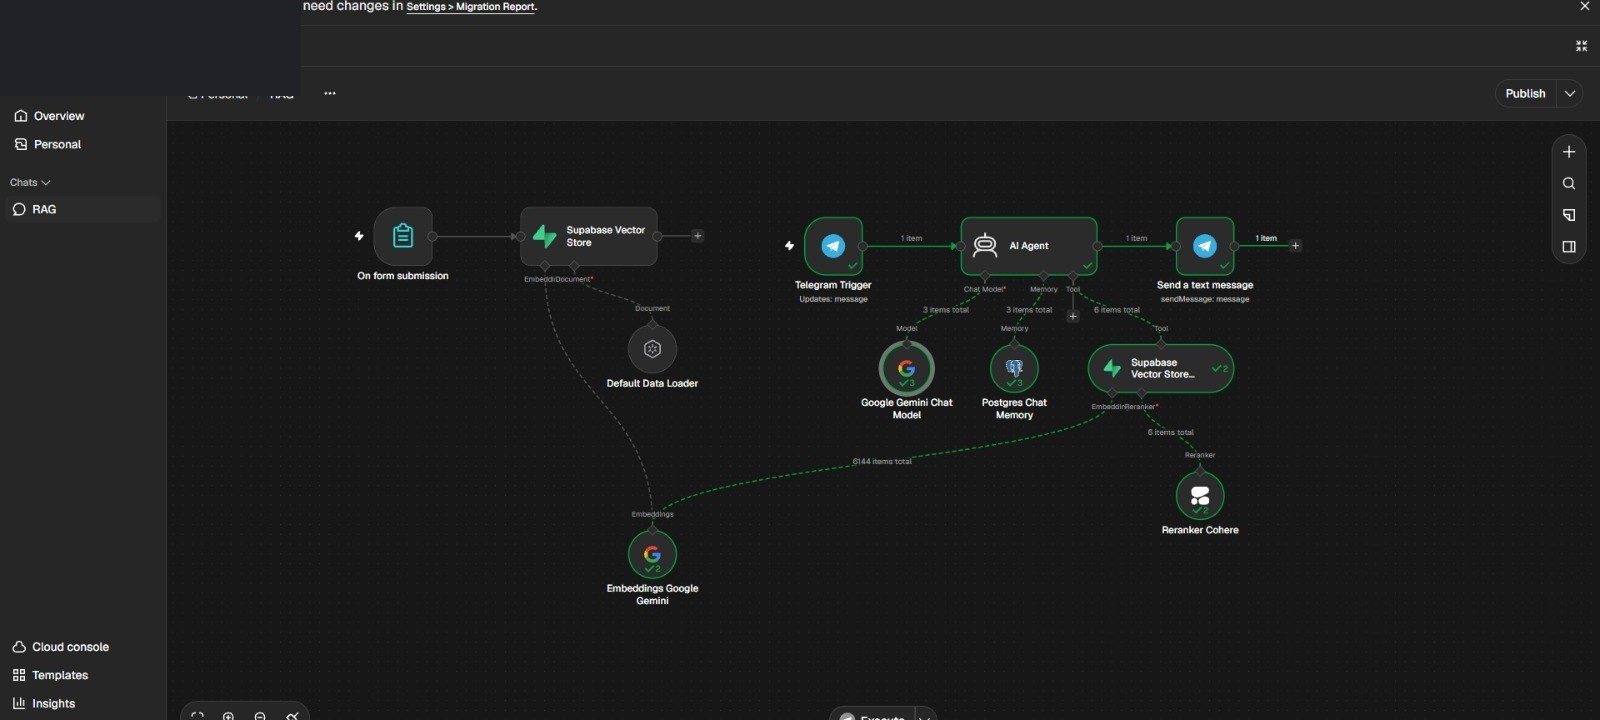
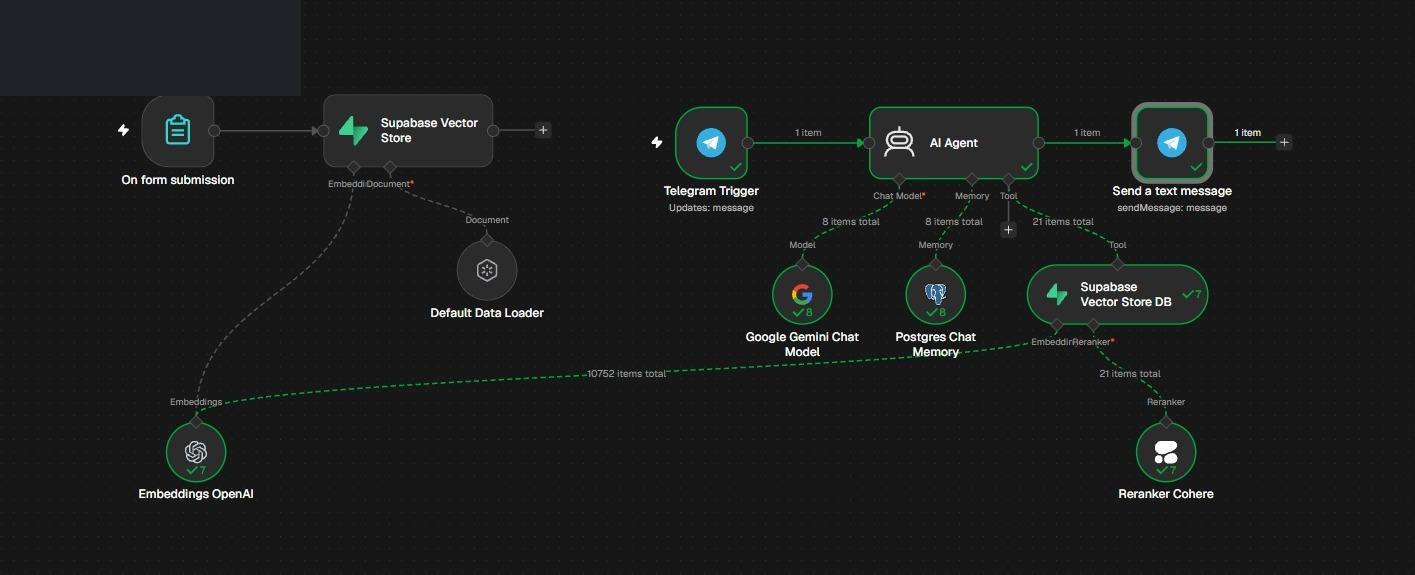
docs: update n8n embeddings to OpenAI

diff --git a/docs/n8n-RAG.md b/docs/n8n-RAG.md
@@ -8,8 +8,10 @@ Ekspor workflow asli disimpan di luar repository pada `C:\Users\Bang_megg\Docume
 
 Workflow bernama `RAG` terdiri dari dua jalur:
 
-1. **Ingestion dokumen:** form n8n menerima berkas PDF, `Default Data Loader` menyiapkan konten dokumen, lalu `Embeddings Google Gemini` menghasilkan embedding. `Supabase Vector Store` menyimpan dokumen pada tabel `documents`.
-2. **Tanya-jawab Telegram:** `Telegram Trigger` menerima pesan, kemudian `AI Agent` menggunakan `Google Gemini Chat Model`, `Supabase Vector Store DB` sebagai tool retrieval, `Reranker Cohere`, dan `Postgres Chat Memory`. Node Telegram mengirim keluaran agent kembali ke chat yang mengirim pesan.
+1. **Ingestion dokumen:** form n8n menerima berkas PDF, `Default Data Loader` menyiapkan konten dokumen, lalu node `Embeddings OpenAI` menghasilkan embedding. `Supabase Vector Store` menyimpan dokumen pada tabel `documents`.
+2. **Tanya-jawab Telegram:** `Telegram Trigger` menerima pesan, kemudian `AI Agent` menggunakan `Google Gemini Chat Model` untuk jawaban, `Supabase Vector Store DB` sebagai tool retrieval, `Reranker Cohere`, dan `Postgres Chat Memory`. Node Telegram mengirim keluaran agent kembali ke chat yang mengirim pesan.
+
+Pada screenshot revisi, node embedding terlihat sebagai **Embeddings OpenAI v7**, Supabase Vector Store/Vector Store DB sebagai **v7**, Cohere Reranker sebagai **v7**, Google Gemini Chat Model sebagai **v8**, dan Postgres Chat Memory sebagai **v8**. Nama model embedding OpenAI yang dipilih (misalnya model tertentu) tidak terlihat, jadi dokumentasi ini tidak menetapkan nama atau dimensinya.
 
 System message pada ekspor meminta agent menjawab berdasarkan data di vector store, dan menyatakan tidak tahu bila jawabannya tidak ditemukan. Tetap uji perilaku ini dengan pertanyaan yang jawabannya ada dan tidak ada di sumber.
 
@@ -19,7 +21,8 @@ System message pada ekspor meminta agent menjawab berdasarkan data di vector sto
 |---|---|---|
 | n8n | Menjalankan workflow, form upload, dan Telegram trigger | Instance n8n yang dapat dijangkau; webhook publik/HTTPS diperlukan untuk trigger Telegram pada deployment yang sesuai |
 | Supabase | Menyimpan isi dokumen, metadata, dan embedding | Project, tabel `documents`, skema/vector extension yang sesuai dengan node Supabase Vector Store |
-| Google Gemini | Model chat dan embedding | Credential/API access yang disetel di n8n; dimensi embedding harus konsisten dengan kolom vector Supabase |
+| OpenAI | Model embedding dokumen dan kueri | Credential OpenAI di n8n; pilih model dan pastikan dimensi embedding konsisten dengan kolom vector Supabase |
+| Google Gemini | Model chat untuk AI Agent | Credential/API access Google Gemini yang disetel di n8n |
 | Telegram Bot API | Menerima pertanyaan dan mengirim balasan | Credential bot Telegram yang valid di n8n; pastikan tidak ada proses polling lain yang mengambil update bot yang sama |
 | Cohere | Reranking hasil retrieval | Credential Cohere aktif; node dapat dihapus jika reranking tidak dipakai |
 | PostgreSQL | Memori percakapan agent | Database dan tabel yang sesuai; credential PostgreSQL di n8n |
@@ -29,13 +32,13 @@ Ekspor workflow hanya mencantumkan nama credential seperti `Supabase account 2`,
 
 ## Dokumentasi visual
 
-Screenshot berikut berasal dari percobaan n8n dan Telegram. Bilah alamat serta identitas workspace/chat yang tidak diperlukan telah dipotong atau ditutup. Screenshot Supabase tidak disertakan karena menampilkan project ID dan isi dokumen tersimpan.
+Screenshot berikut berasal dari percobaan n8n dan Telegram. Bilah alamat serta identitas workspace/chat yang tidak diperlukan telah dipotong atau ditutup. Screenshot Supabase tidak disertakan karena menampilkan project ID dan isi dokumen tersimpan. Screenshot workflow terbaru menunjukkan **Embeddings OpenAI**; ekspor JSON `RAG-sapi.json` yang tersedia di folder sumber merupakan versi lebih lama dan masih menunjukkan Gemini untuk embedding.
 
 ### Workflow RAG di n8n
 
-![Canvas workflow n8n: ingestion dokumen dan tanya-jawab Telegram](images/n8n-rag/workflow-overview.jpg)
+![Canvas workflow n8n: ingestion dokumen dengan OpenAI Embeddings dan tanya-jawab Telegram](images/n8n-rag/workflow-overview.jpg)
 
-*Jalur ingestion menggunakan form, Data Loader, Gemini Embeddings, dan Supabase Vector Store. Jalur tanya-jawab menggunakan Telegram Trigger, AI Agent, Gemini, Postgres Chat Memory, Supabase Vector Store, dan Cohere reranker.*
+*Screenshot revisi menunjukkan jalur ingestion memakai form, Data Loader, OpenAI Embeddings, dan Supabase Vector Store. Jalur tanya-jawab memakai Telegram Trigger, AI Agent dengan Google Gemini Chat Model, Postgres Chat Memory, Supabase Vector Store DB, dan Cohere reranker.*
 
 ### Detail eksekusi workflow
 
@@ -55,7 +58,7 @@ Screenshot berikut berasal dari percobaan n8n dan Telegram. Bilah alamat serta i
 flowchart LR
     PDF["PDF via n8n Form"] --> Loader["Default Data Loader"]
     Loader --> VS["Supabase Vector Store<br/>table: documents"]
-    Embed["Google Gemini Embeddings"] --> VS
+    Embed["OpenAI Embeddings"] --> VS
 
     TG["Telegram message"] --> Agent["n8n AI Agent"]
     Model["Google Gemini Chat Model"] --> Agent
@@ -70,13 +73,15 @@ flowchart LR
 
 Screenshot percobaan memperlihatkan tabel Supabase `public.documents` dengan kolom `id`, `content`, `metadata`, dan `embedding`. Metadata mencakup lokasi potongan dokumen, sedangkan `embedding` berisi vektor numerik. Screenshot juga memperlihatkan tabel `public.n8n_chat_histories`; skema detail dan keterkaitannya tidak terverifikasi dari screenshot.
 
-Screenshot workflow menunjukkan ingestion dokumen terpisah dari jalur tanya-jawab Telegram. Node retrieval dikonfigurasi dalam ekspor dengan `topK: 20` dan `useReranker: true`. Nilai ini adalah konfigurasi eksperimen, bukan klaim bahwa 20 hasil selalu optimal. Ukur relevansi dan latensi pada data sendiri sebelum mengubahnya.
+Screenshot workflow terbaru menunjukkan ingestion dokumen terpisah dari jalur tanya-jawab Telegram dengan OpenAI Embeddings. Node retrieval pada ekspor lama dikonfigurasi dengan `topK: 20` dan `useReranker: true`; karena ekspor tersebut mendahului revisi embedding, cocokkan kembali nilai dan konfigurasi aktual di n8n. Nilai `topK` bukan klaim bahwa 20 hasil selalu optimal. Ukur relevansi dan latensi pada data sendiri.
+
+Bila model embedding berubah, pastikan dimensi embedding tetap cocok dengan skema Supabase. Jika model atau dimensinya berbeda, buat/konfigurasikan ulang kolom atau tabel vektor yang sesuai dan re-embed dokumen yang sudah ada sebelum query dengan embedding baru; jangan mencampur vektor dari model berbeda dalam ruang vektor yang sama.
 
 ## Menjalankan dan menguji eksperimen
 
 1. Siapkan instance n8n dan koneksi HTTPS/webhook yang dibutuhkan Telegram Trigger.
 2. Siapkan Supabase dan tabel/indeks vector yang kompatibel dengan jenis serta dimensi embedding yang dipilih.
-3. Buat credential Gemini, Supabase, Telegram, Cohere (jika dipakai), dan PostgreSQL melalui pengelolaan credential bawaan n8n. Jangan menaruh secret di file workflow, README, atau Git.
+3. Buat credential OpenAI untuk embedding, Google Gemini untuk chat model, Supabase, Telegram, Cohere (jika dipakai), dan PostgreSQL melalui pengelolaan credential bawaan n8n. Jangan menaruh secret di file workflow, README, atau Git.
 4. Import `RAG-sapi.json` melalui antarmuka n8n. Ekspor yang diperiksa berstatus tidak aktif; tinjau node, credential, nama tabel, model, prompt, dan koneksi sebelum mengaktifkan workflow.
 5. Jalankan jalur form dengan PDF uji yang tidak sensitif. Pastikan konten, metadata, dan embedding tersimpan di tabel yang benar.
 6. Uji Telegram dengan pertanyaan yang jawabannya tercantum dalam dokumen, pertanyaan yang tidak tercantum, dan percakapan berbeda. Pastikan jawaban berpijak pada sumber dan tidak mengarang saat retrieval kosong.
